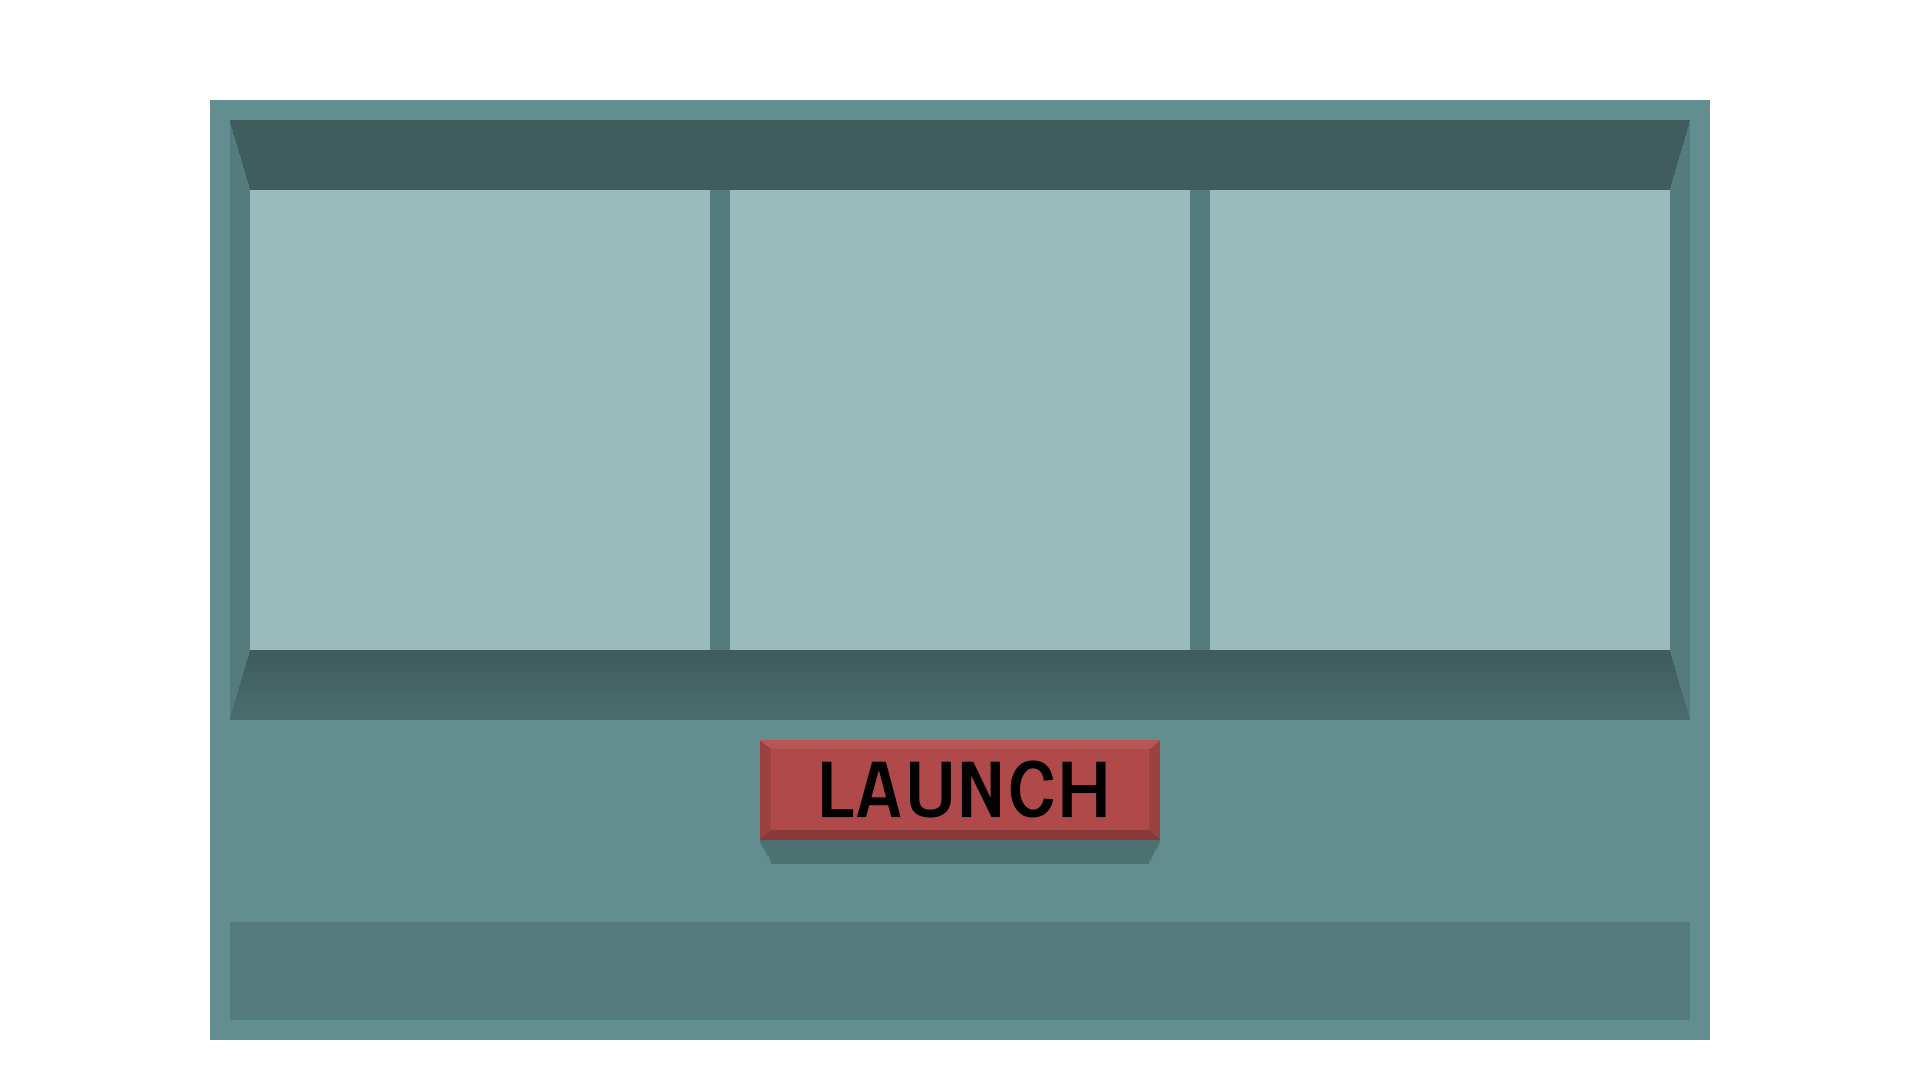
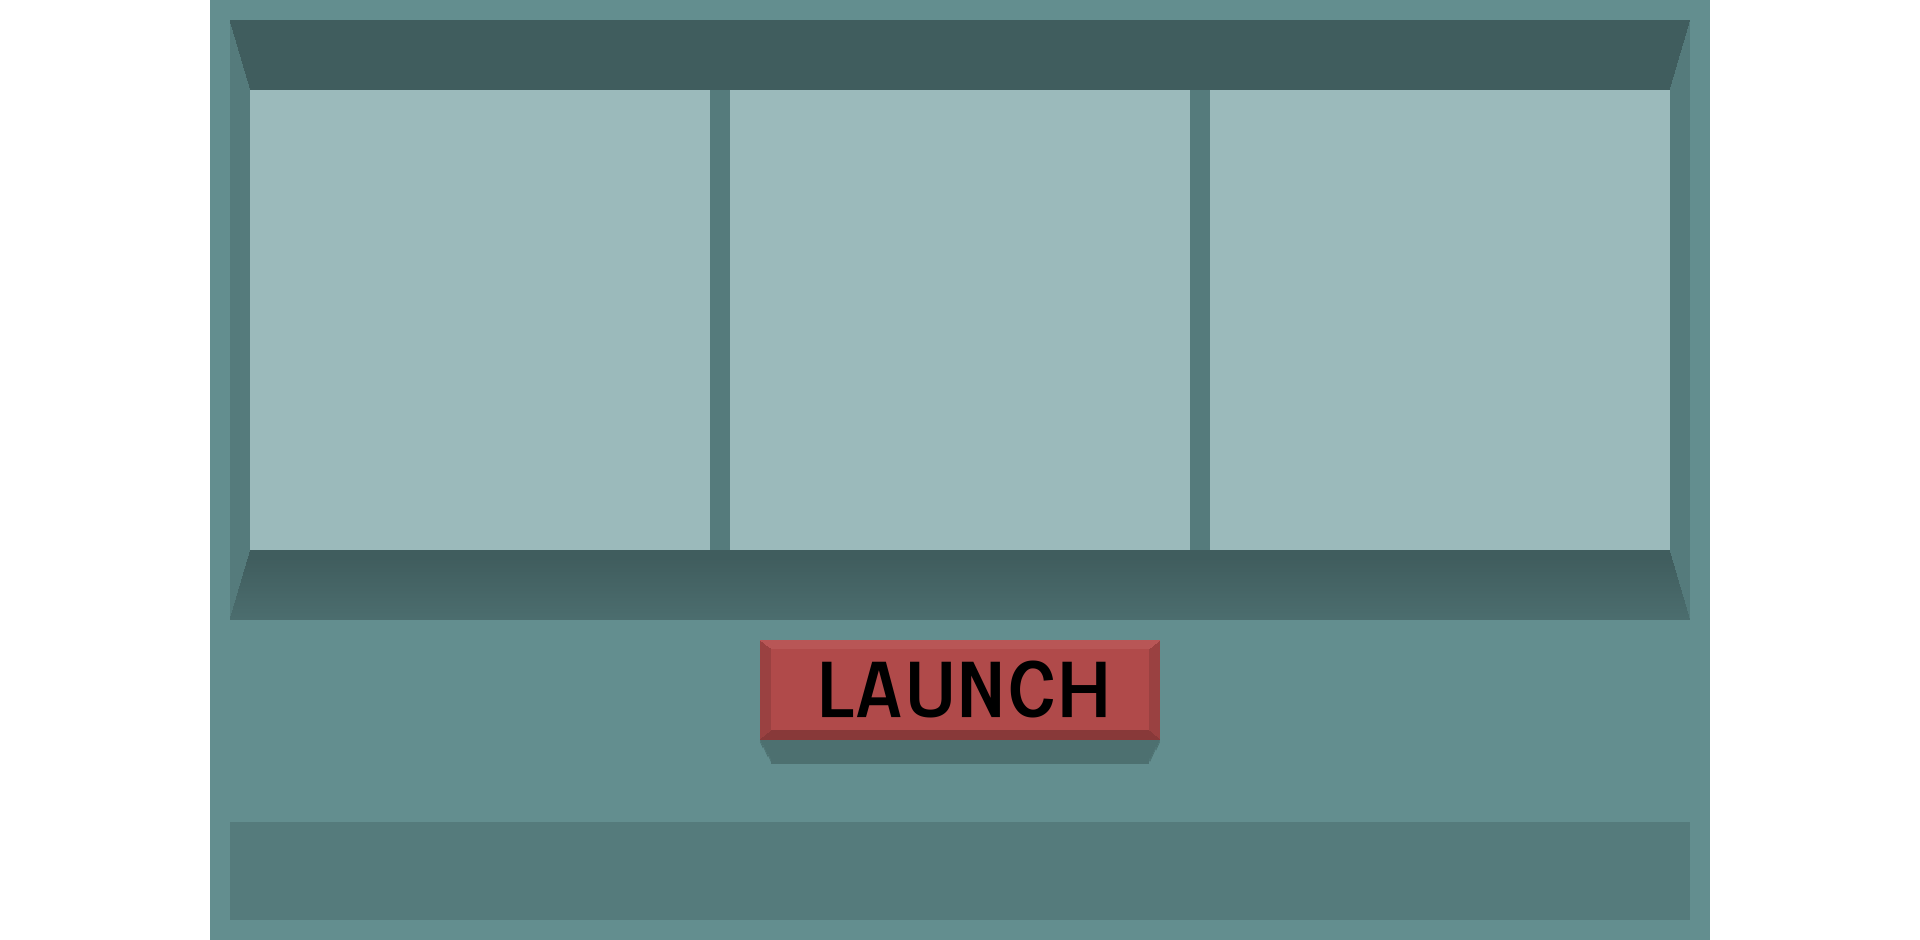
Starting UI replacement

diff --git a/core/src/sepr/game/MinigameScreen.java b/core/src/sepr/game/MinigameScreen.java
@@ -15,6 +15,7 @@ import com.badlogic.gdx.scenes.scene2d.utils.ChangeListener;
 import com.badlogic.gdx.scenes.scene2d.utils.TextureRegionDrawable;
 import com.badlogic.gdx.utils.viewport.ScreenViewport;
 
+import javax.xml.soap.Text;
 import java.util.Random;
 
 public class MinigameScreen implements Screen {
@@ -30,6 +31,7 @@ public class MinigameScreen implements Screen {
     private int slotOneSpins, slotTwoSpins, slotThreeSpins;
     private int slotOneCurrent, slotTwoCurrent, slotThreeCurrent;
 
+    private Image slotMachine;
     private Image a, b, c, d, e, f, g, h, i, j, k, l;
 
     private Image[] imagesSlotOne, imagesSlotTwo, imagesSlotThree;
@@ -48,6 +50,8 @@ public class MinigameScreen implements Screen {
         this.slotOneSpins = 0;
         this.slotTwoSpins = 0;
         this.slotThreeSpins = 0;
+
+        this.slotMachine = new Image(new Texture("uiComponents/minigame/slotMachine.png"));
 
         Texture imgOne = new Texture("uiComponents/minigame/minigame1.png");
         Texture imgTwo = new Texture("uiComponents/minigame/minigame2.png");
@@ -108,13 +112,19 @@ public class MinigameScreen implements Screen {
         }
 
         Table slotTable = new Table();
-        slotTable.setDebug(false);
+        slotTable.setDebug(true);
         slotTable.setFillParent(true);
+
+        slotTable.row();
+        slotTable.add().expandX().height(180);
 
         slotTable.row().center().padBottom(100);
         slotTable.add(imagesSlotOne[selectOne]);
-        slotTable.add(imagesSlotTwo[selectTwo]).padLeft(40).padRight(40);
+        slotTable.add(imagesSlotTwo[selectTwo]).padLeft(300).padRight(300);
         slotTable.add(imagesSlotThree[selectThree]);
+
+        slotTable.row();
+        slotTable.add().expandX().expandY();
 
         slotStage.addActor(slotTable);
     }
@@ -140,20 +150,26 @@ public class MinigameScreen implements Screen {
         table.center();
         table.add(WidgetFactory.genMenusTopBar("MINIGAME")).colspan(2);
 
+        table.row();
+        table.add().expandX().height(30);
+
+        table.row();
+        table.add(slotMachine);
+
         /*table.row();
         table.add().expandX().height(150);
 
         table.row();
         table.add(slotMachine());*/
 
-        table.row();
+        /*table.row();
         table.add().expand();
 
         table.row().center();
-        table.add(spinButton);
+        table.add(spinButton);*/
 
         table.row();
-        table.add().expandX().height(60);
+        table.add().expandX().expandY();
 
     }
 
